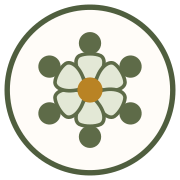
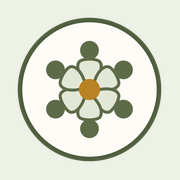
Иконка для iPhone на светло-шалфейном фоне вместо чёрных углов
Claude-Session: https://claude.ai/code/session_01DnPNzX8yvVSgdAHjzx22ZR

diff --git a/sw.js b/sw.js
@@ -3,7 +3,7 @@
    Файлы (стили, скрипты, шрифты, картинки): сразу из памяти, в фоне обновляются.
    Личные записи людей здесь не хранятся: они остаются в localStorage браузера, как раньше.
    При изменении этого файла поднять VERSION — старая память удалится. */
-const VERSION = 'v1-2026-10-08';
+const VERSION = 'v2-2026-10-08';
 const CACHE = 'svoiludi-' + VERSION;
 const CORE = ['/offline.html', '/assets/fonts.css', '/assets/pwa-app.js', '/fav/icon-192.png', '/fav/favicon.svg'];
 const MAX = 160;

diff --git a/_i18n/JOURNAL.md b/_i18n/JOURNAL.md
@@ -42,3 +42,4 @@
 ## 08.10.2026 — кнопки прямоугольные с закруглением (опубликовано 08.10.2026, Ирина: «выглядят аккуратнее»)
 - Просьба Ирины: кнопки (переходы, действия, цены, «Поделиться», резервная копия, переключатели вида и языка) — как плитки меню, скругление 12 px (вложенные переключатели 9 px). Метки (образец, теги, онлайн, кружки «?», сердечко) остаются круглыми.
 - Правило — SHAPE в `_i18n/pwa.py` (блок <!--pwa--> в head всех страниц). Новый класс кнопки — добавить в список SHAPE.
+- 08.10.2026: иконка для iPhone (fav/apple-touch-icon.png, icon-180.png) — без прозрачных углов, цветок на светло-шалфейном фоне (iPhone закрашивал прозрачное чёрным). sw.js VERSION v2.
